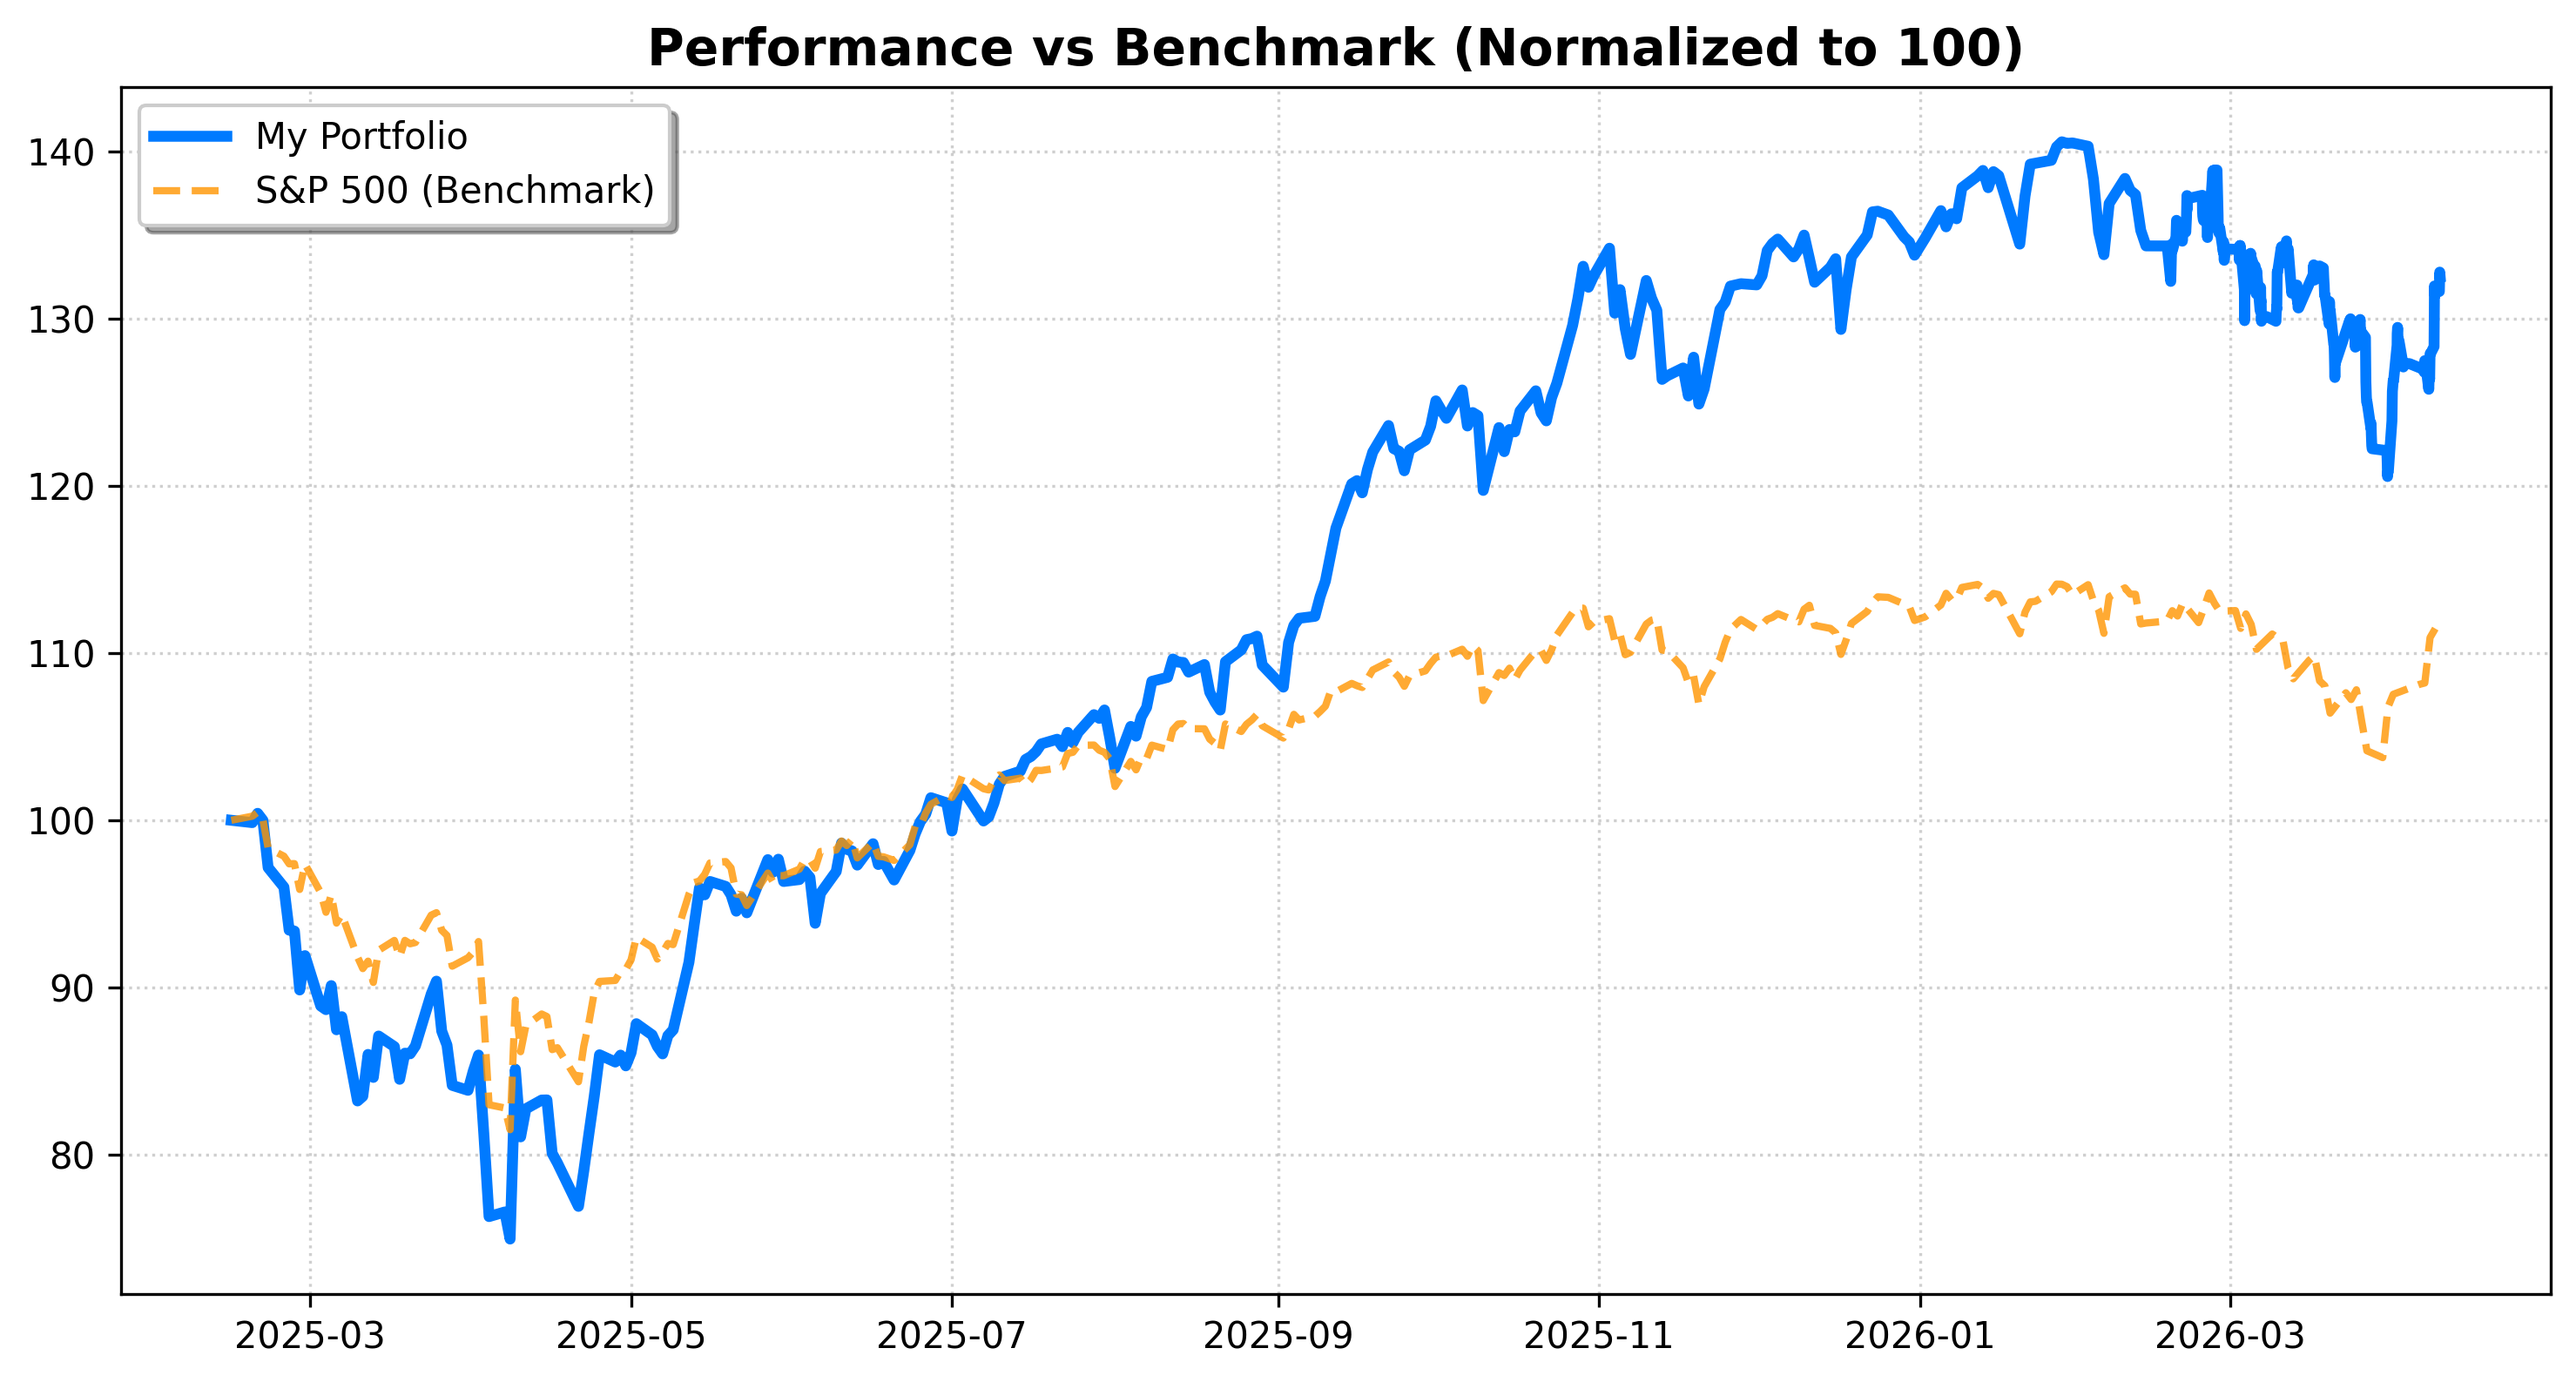
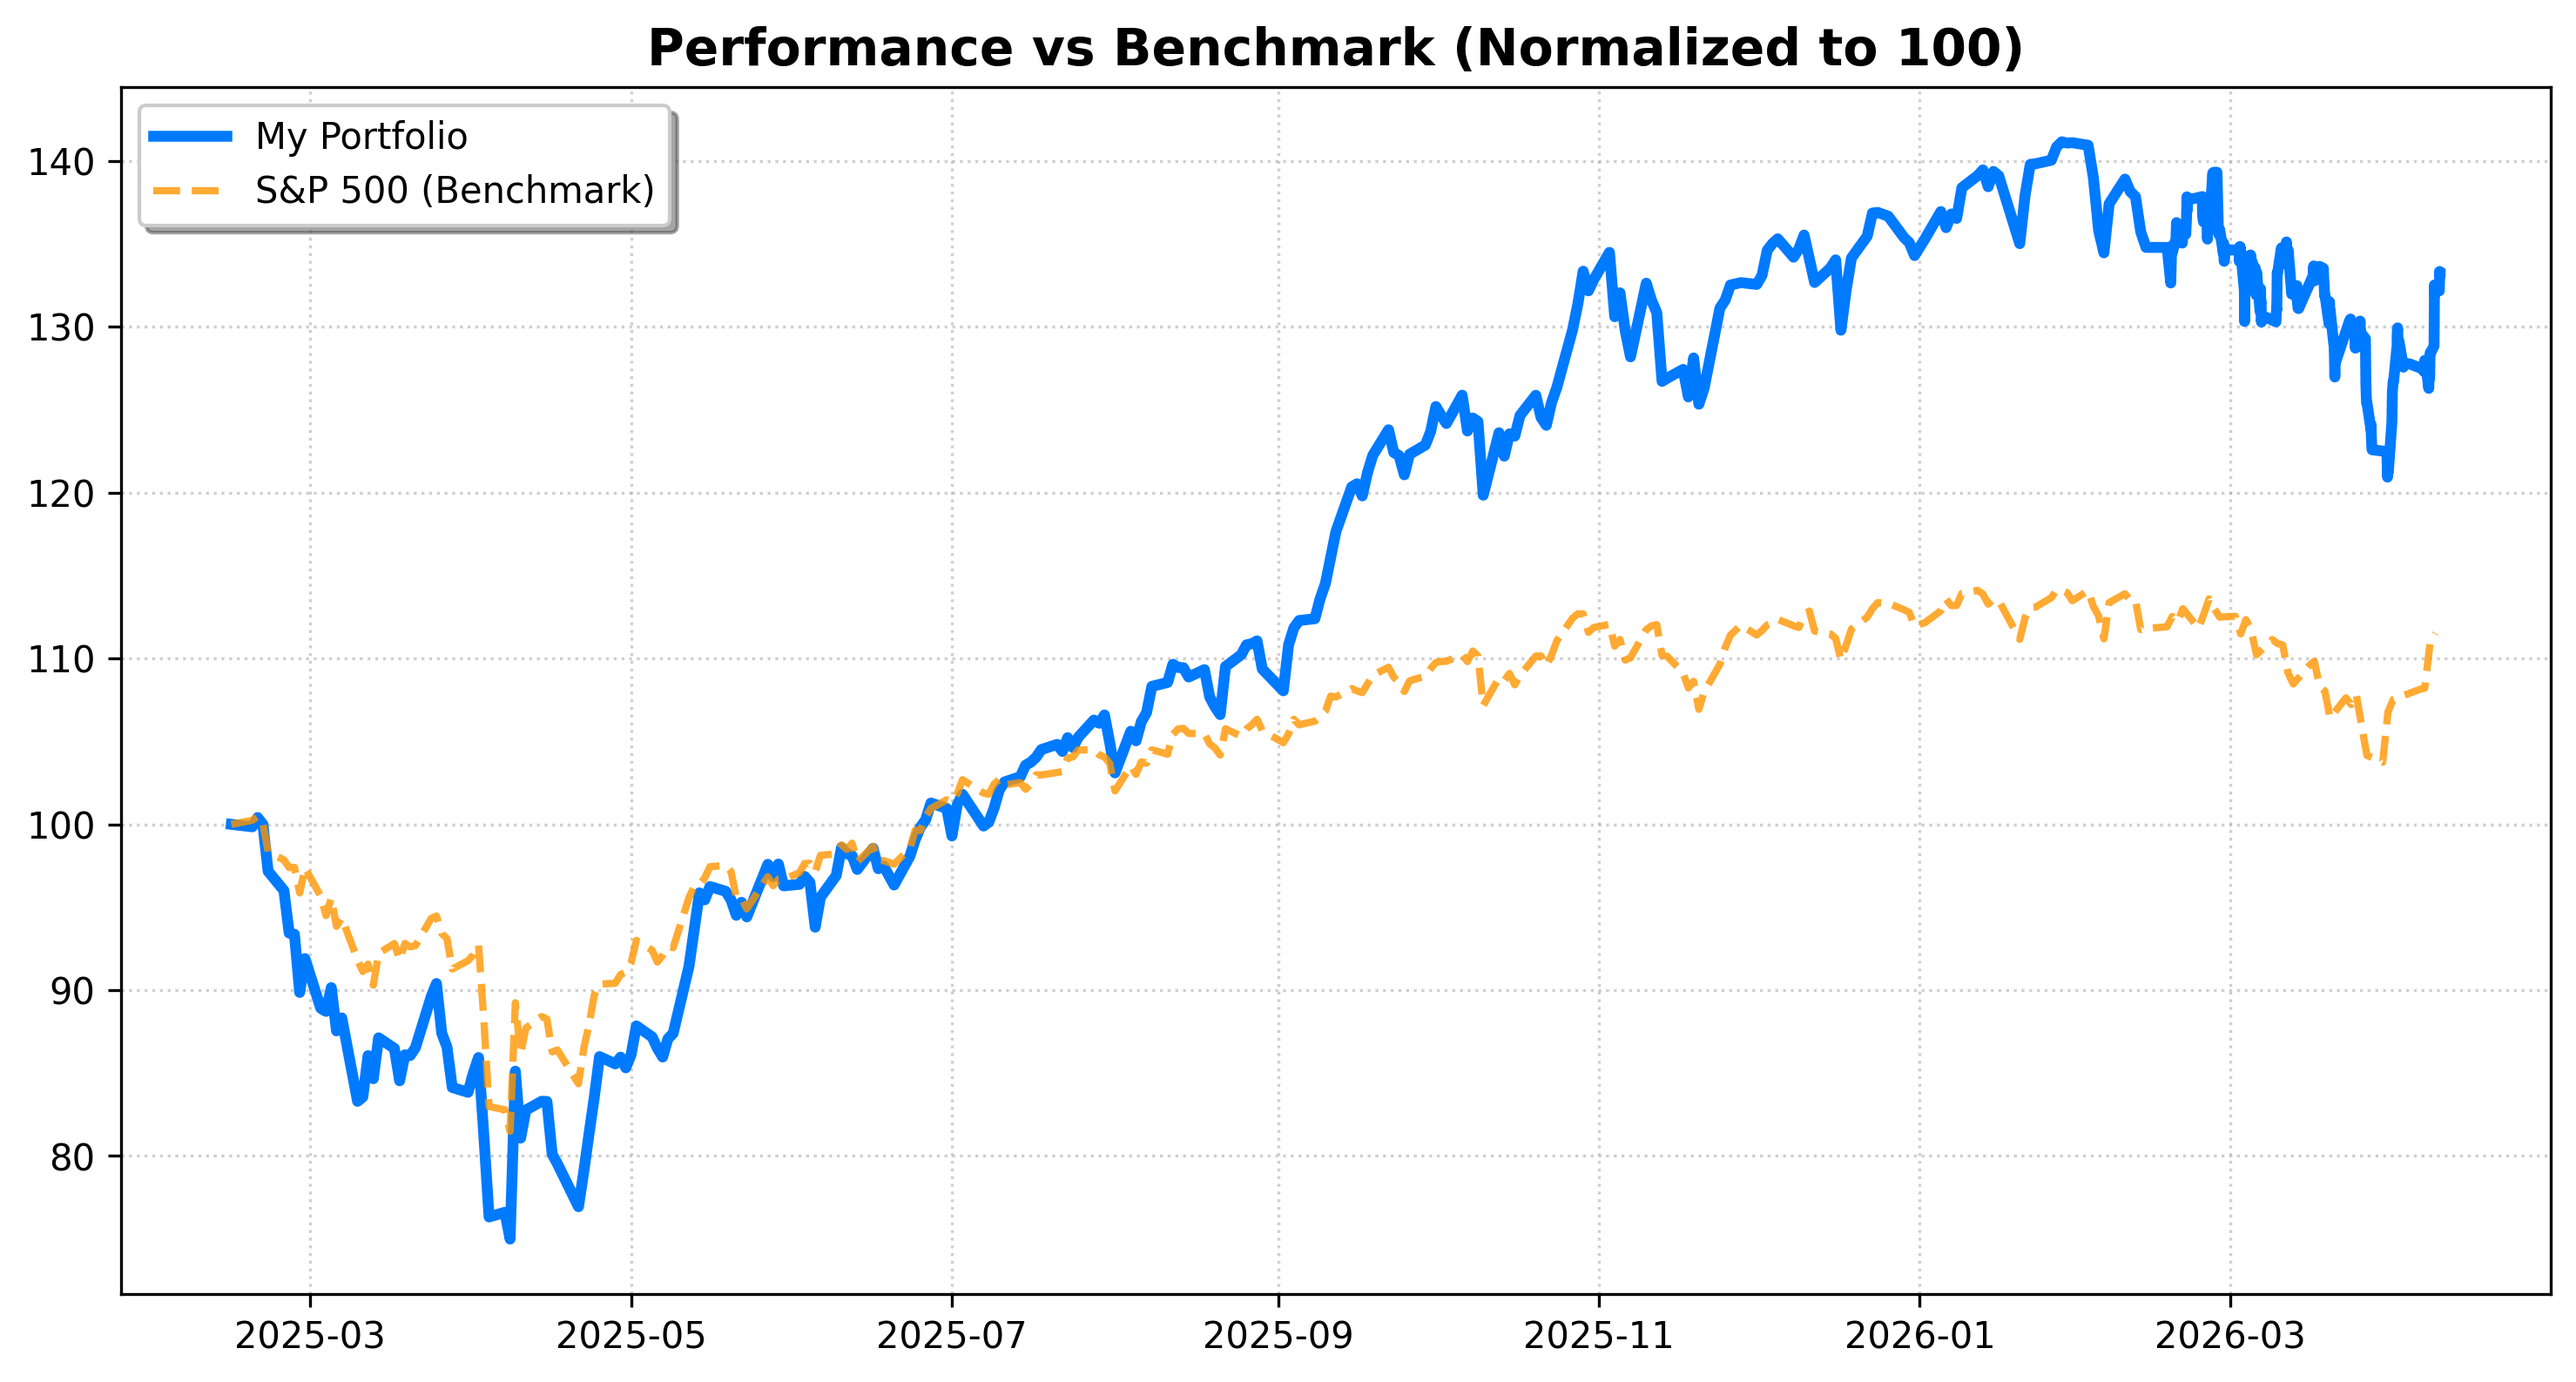
System Run: Analytics & Archive Update [skip ci]

diff --git a/README.md b/README.md
@@ -1,23 +1,23 @@
 # 📊 Portfolio Dashboard | מעקב תיק השקעות
-**Last Update:** 09/04/2026 21:57 | **USD/ILS:** ₪3.053
+**Last Update:** 09/04/2026 22:02 | **USD/ILS:** ₪3.055
 
 ## 💰 Portfolio Summary | סיכום התיק
 | Metric | Value | נתון |
 | :--- | :--- | :--- |
-| **Current Value** | `₪161,067` | **שווי נוכחי** |
-| **Total Invested** | `₪128,212` | **סך השקעה** |
-| **Total Profit/Loss** | `+25.63%` (₪32,856) | **רווח/הפסד כולל** |
-| **Daily Change** | `+0.42%` | **שינוי יומי** |
+| **Current Value** | `₪164,257` | **שווי נוכחי** |
+| **Total Invested** | `₪130,976` | **סך השקעה** |
+| **Total Profit/Loss** | `+25.41%` (₪33,281) | **רווח/הפסד כולל** |
+| **Daily Change** | `+0.50%` | **שינוי יומי** |
 
 ## 📜 Holdings | פירוט החזקות
 | Ticker | Shares | Avg. Cost | Current Price | P&L % | P&L ILS |
 | :--- | :--- | :--- | :--- | :--- | :--- |
-| GOOGL | 45 | $181.15 | $318.43 | 🟢 +75.78% | ₪18,858 |
-| ASML | 4 | $934.51 | $1,442.35 | 🟢 +54.34% | ₪6,201 |
-| XOM | 2 | $126.08 | $155.12 | 🟢 +23.03% | ₪177 |
-| NVDA | 57 | $148.62 | $183.52 | 🟢 +23.48% | ₪6,073 |
-| TSLA | 20 | $436.45 | $345.42 | 🔴 -20.86% | ₪-5,558 |
-| VOO | 24 | $527.38 | $624.34 | 🟢 +18.39% | ₪7,104 |
+| GOOGL | 48 | $187.99 | $318.71 | 🟢 +69.54% | ₪19,169 |
+| ASML | 4 | $934.51 | $1,441.86 | 🟢 +54.29% | ₪6,200 |
+| XOM | 2 | $126.08 | $155.00 | 🟢 +22.94% | ₪177 |
+| NVDA | 57 | $148.62 | $183.73 | 🟢 +23.62% | ₪6,114 |
+| TSLA | 20 | $436.45 | $346.22 | 🔴 -20.67% | ₪-5,513 |
+| VOO | 24 | $527.38 | $624.68 | 🟢 +18.45% | ₪7,134 |
 
 ## 📈 Charts | גרפים
 ![Performance](./data_hub/portfolio_performance.png)
